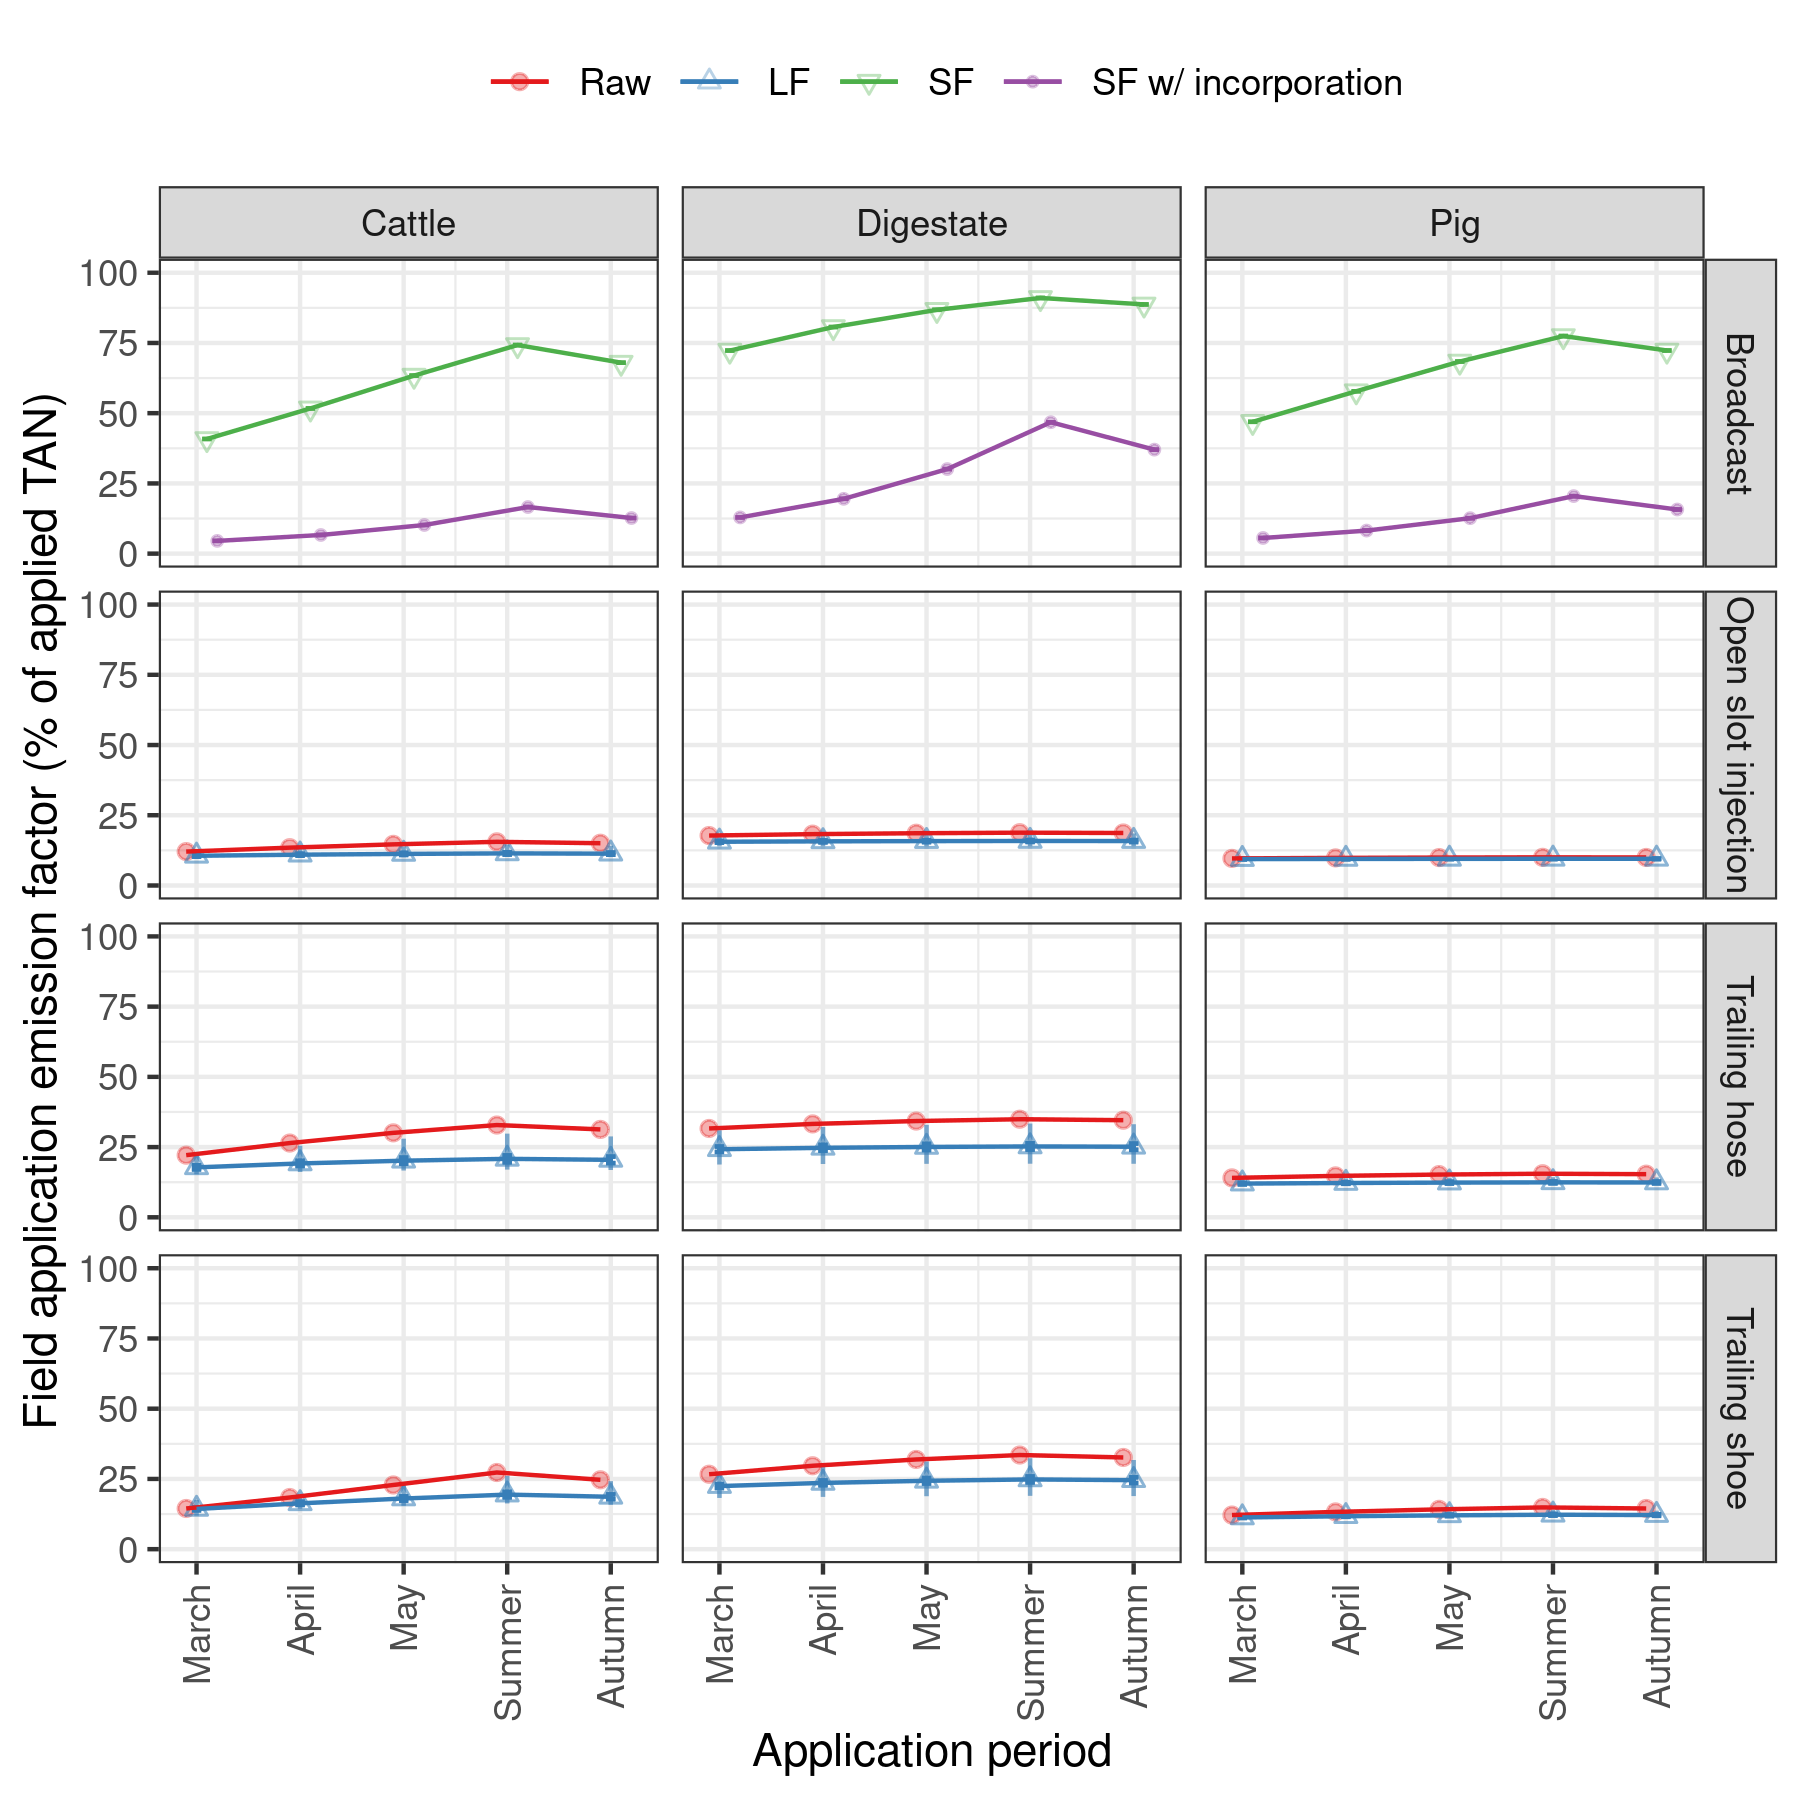
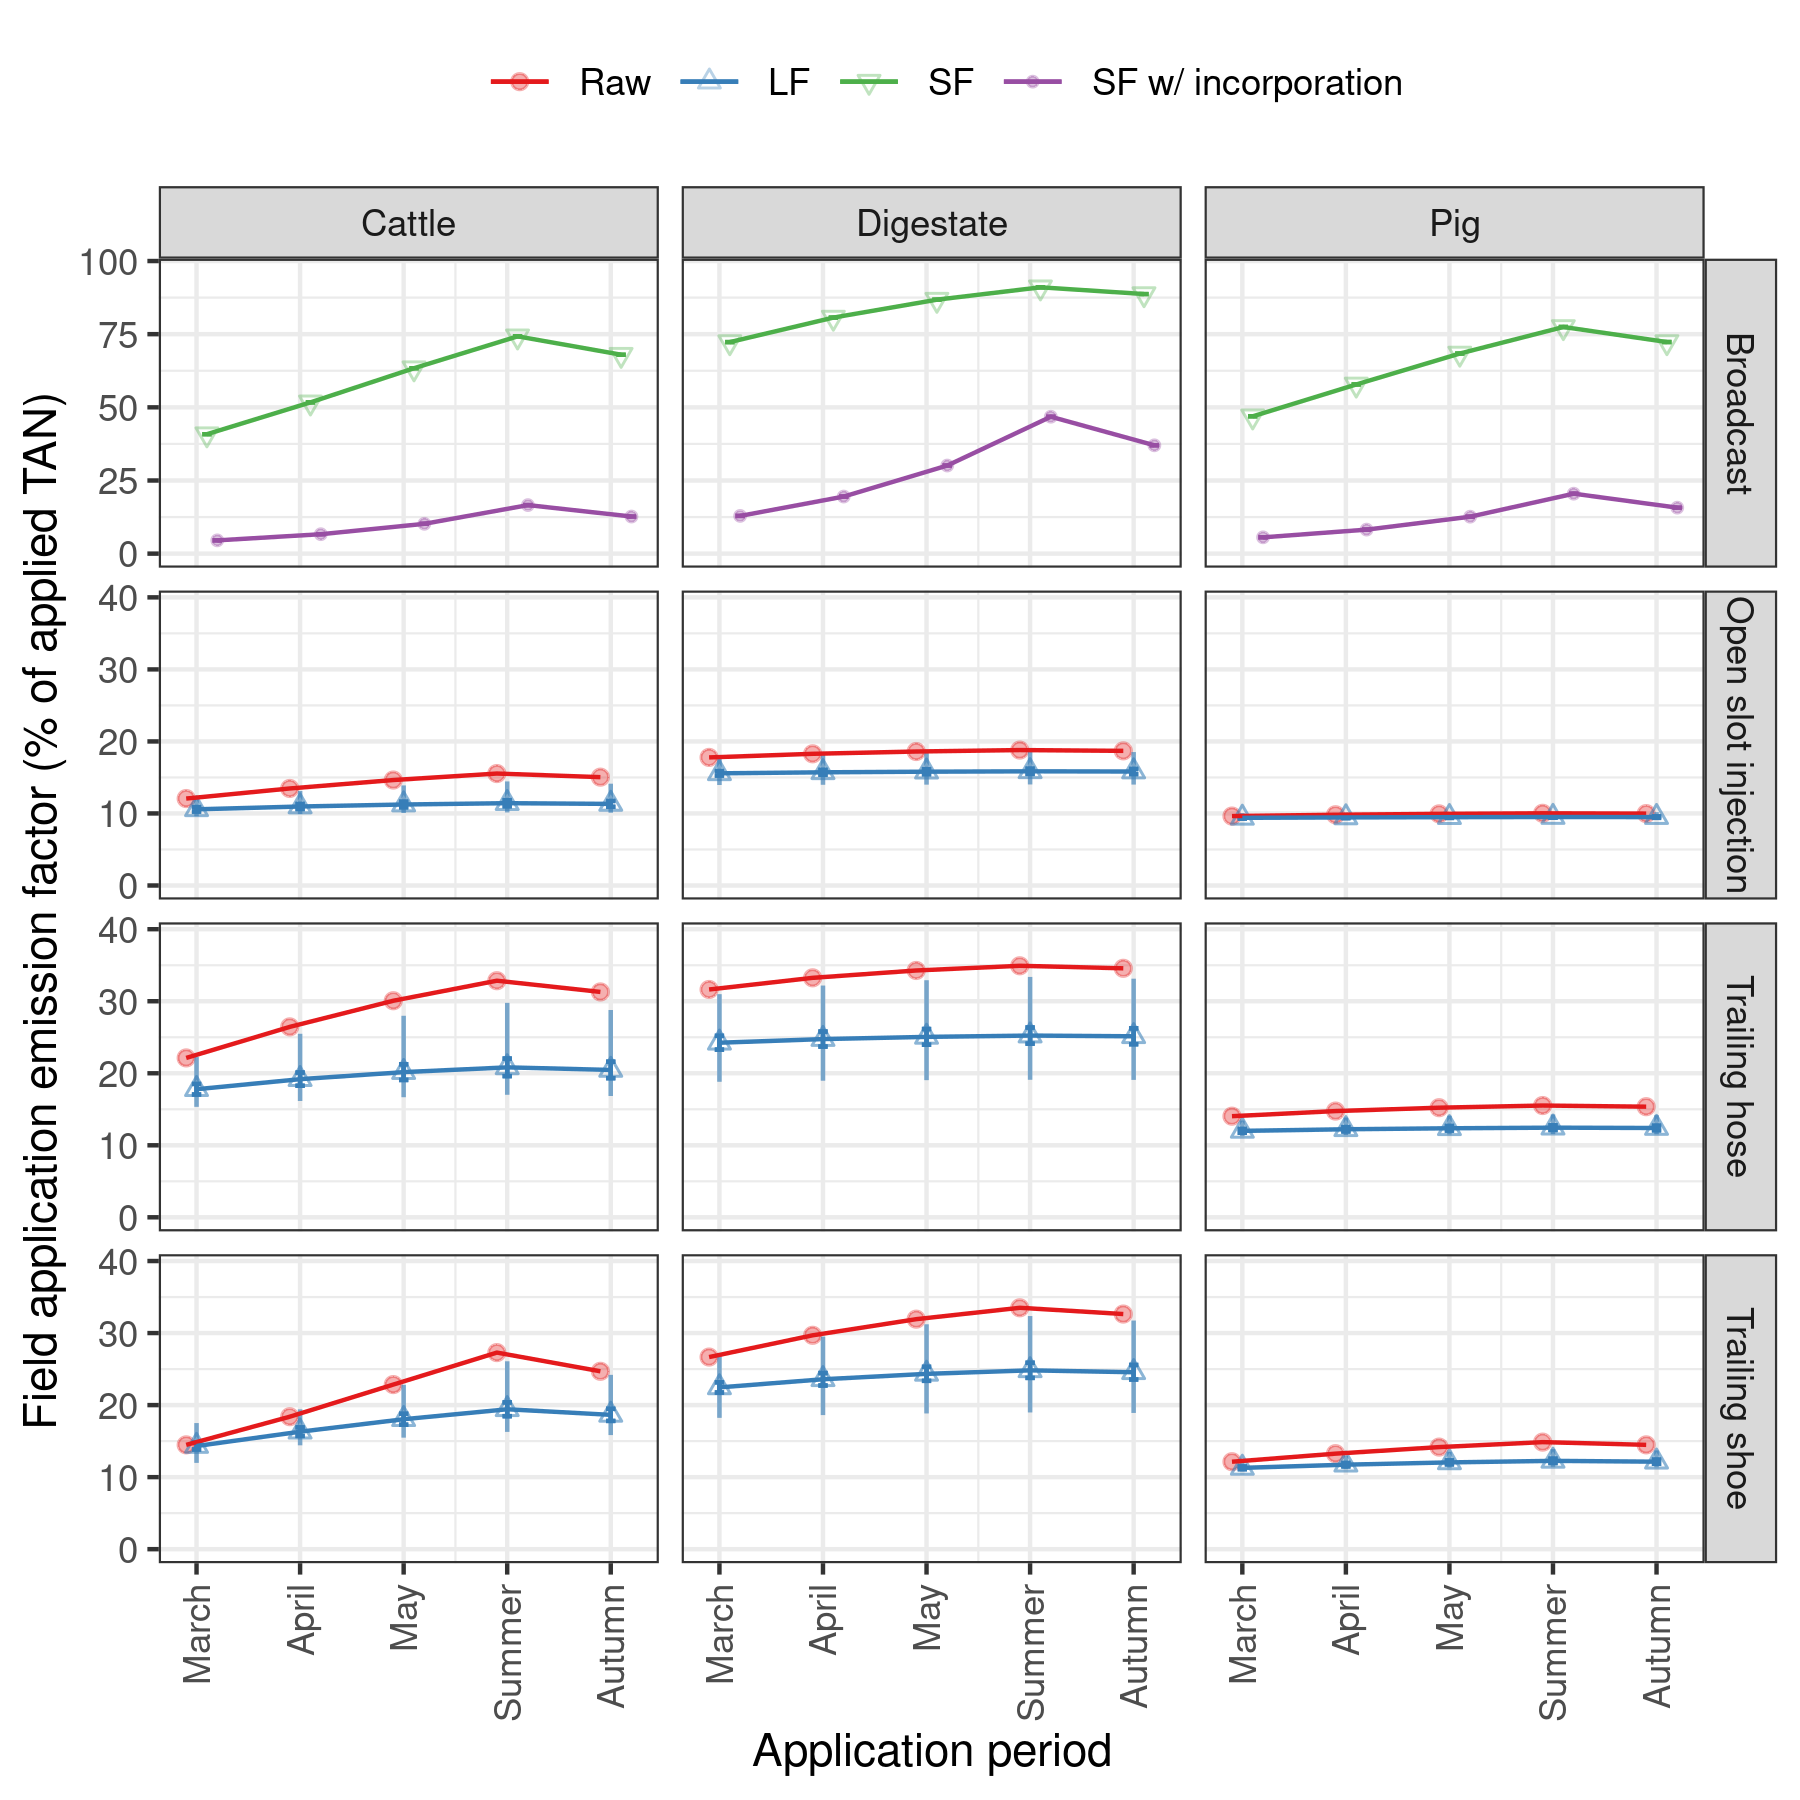
Change y axis limits

diff --git a/2022_slurry_separation_manuscript/EF_calcs/README.md b/2022_slurry_separation_manuscript/EF_calcs/README.md
@@ -1,4 +1,4 @@
-# EF_calcs
+# `EF_calcs`
 Calculation of *overall* (storage and application) emission factors given some assumptions about separation.
 See `../README.md` for additional information.
 
@@ -29,4 +29,3 @@ This applies here, but only given the assumptions that all other inputs apart fr
 
 # Plots
 The plot `plots/overall_emis_factors.png` shows mean values (points) plus a 95% confidence interval (error bars), as well as minimum and maximum estimates from individual literature observations (light error bars without horizontal ends). 
-

diff --git a/2022_slurry_separation_manuscript/EF_calcs/logs/predict.md b/2022_slurry_separation_manuscript/EF_calcs/logs/predict.md
@@ -3,7 +3,7 @@ title: 'Model call record'
 output: pdf_document
 classoption: landscape
 author: Sasha D. Hafner
-date: "16 August, 2022"
+date: "17 August, 2022"
 ---
 
 Calculates emission factors
